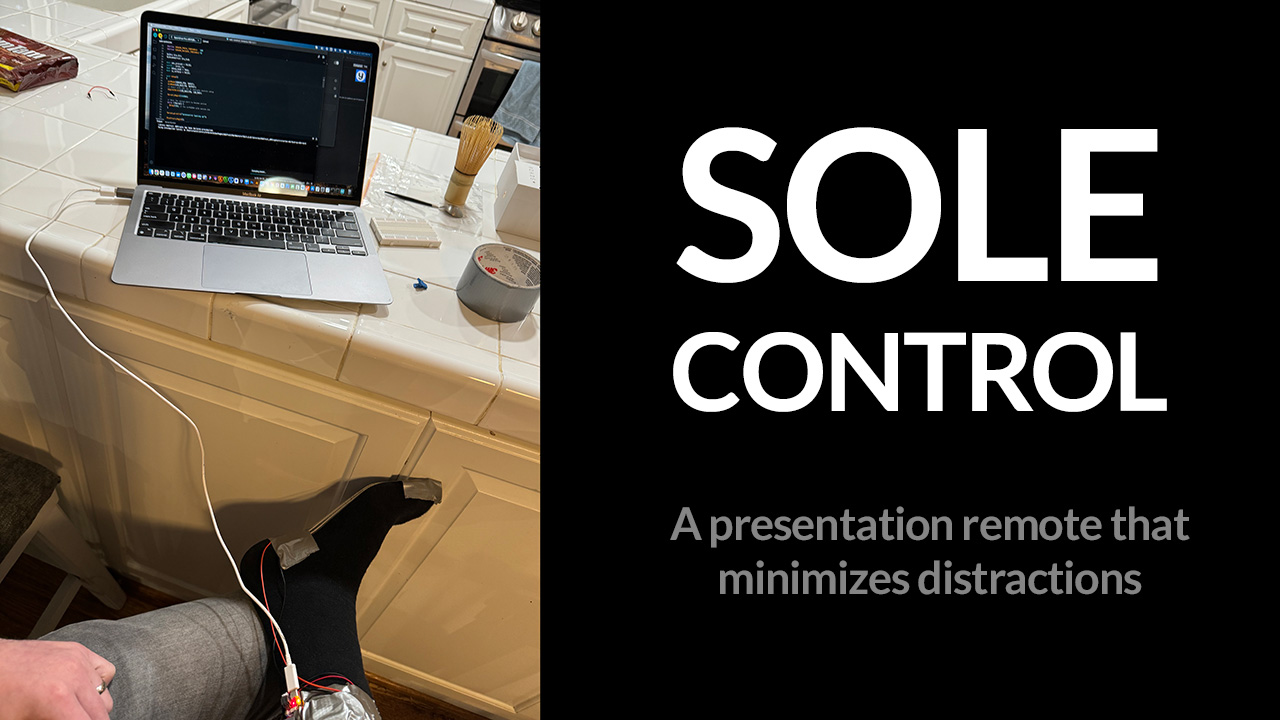
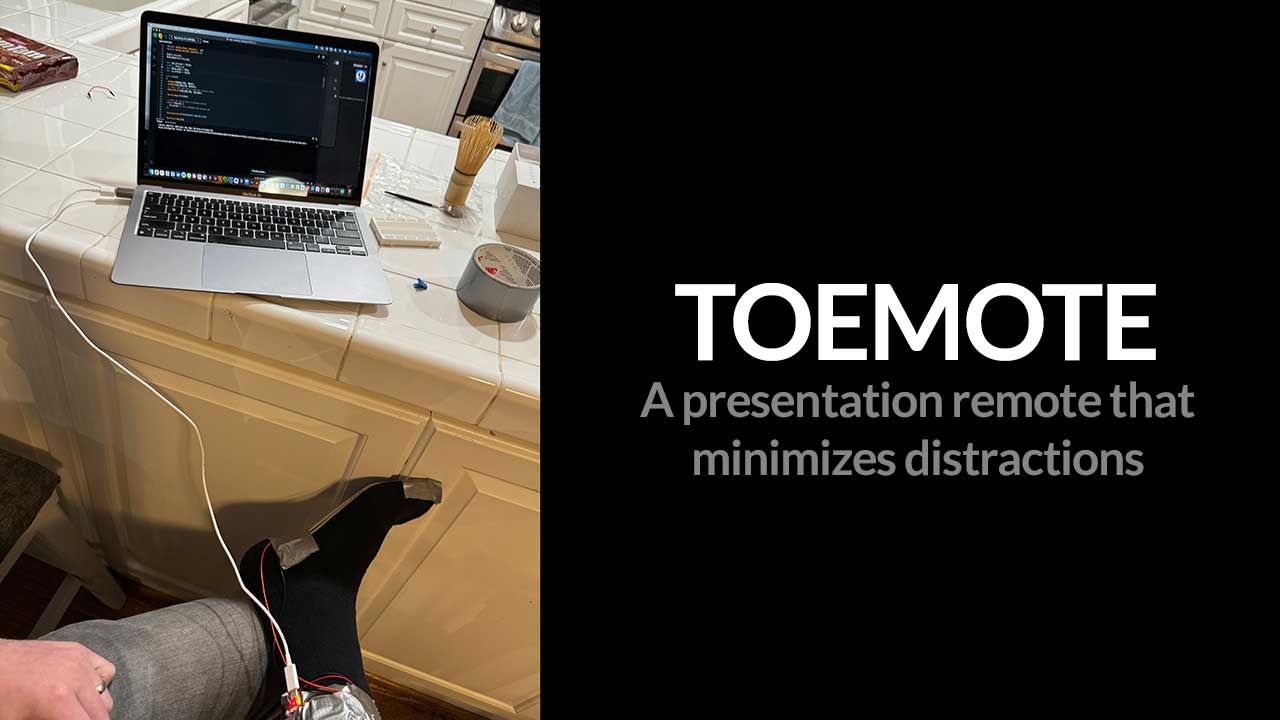
Use better name

diff --git a/README.md b/README.md
@@ -1,12 +1,12 @@
-# SoleControl: A presentation remote that minimizes distractions
+# Toemote: A presentation remote that minimizes distractions
 
-[![SoleControl: A presentation remote that minimizes distractions](readme-assets/cover-image.jpg)](https://youtu.be/DpOcqVNHGnc)
+[![Toemote: A presentation remote that minimizes distractions](readme-assets/cover-image.jpg)](https://youtu.be/DpOcqVNHGnc)
 
 Every have to give a presentation in front of an audience? How do you keep your slides progressing? You could awkwardly call out "Next!" to a friend in the audience who is by the presenting computer, but most people just use wireless presenter remotes.
 
 These remotes are effective, and some even come with cool built-in laser pointers (which is great if you have a cat), but these remotes stand between you and your audience and present a visual distraction. 
 
-SoleControl is a project that allows you to free your hands and engage your audience - by placing the presentation remote under your foot!
+Toemote is a project that allows you to free your hands and engage your audience - by placing the presentation remote under your foot!
 
 By placing a force sensor under the big toe, you can be completely free to move around the stage and present to your audience unencumbered by distractions. 
 
@@ -44,7 +44,7 @@ These items were not part of the actual Bill of Materials, but were helpful in a
 
 ## Schematic
 *Note: The board in the schematic below is not an exact image of the SparkFun Pro nRF52840 Mini. Make sure you connect the pin numbers as listed in the diagram*  
-![SoleControl Schematic](readme-assets/schematic.png)
+![Toemote Schematic](readme-assets/schematic.png)
 
 ## Setup instructions
 
